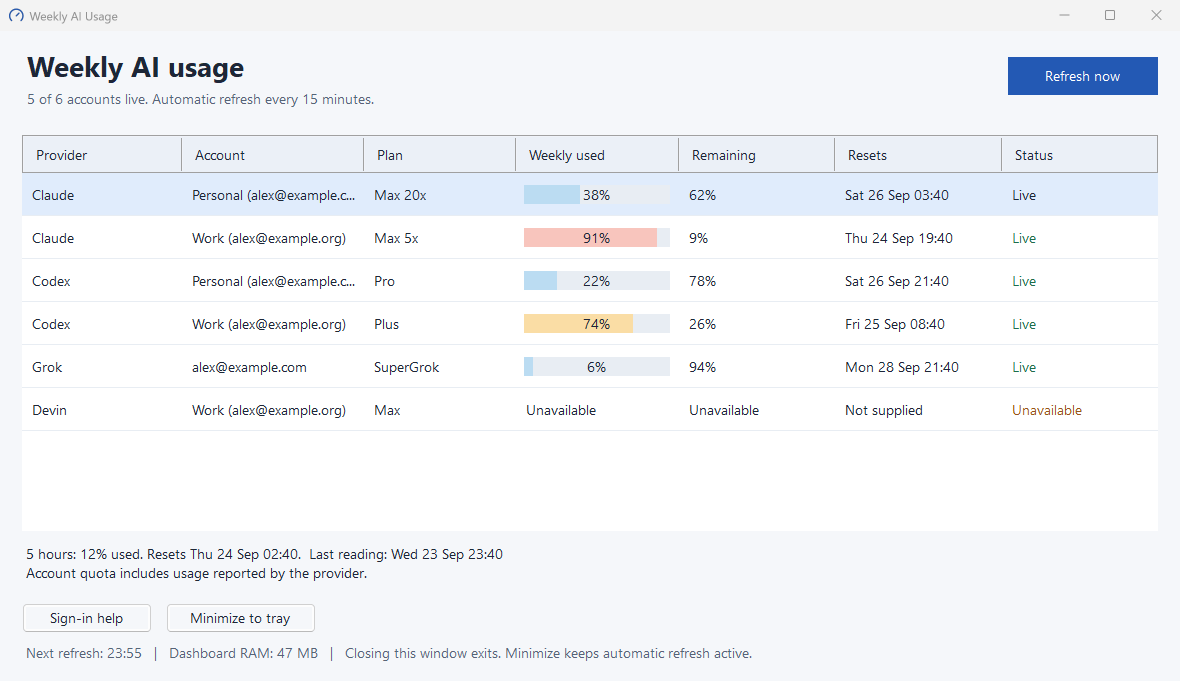
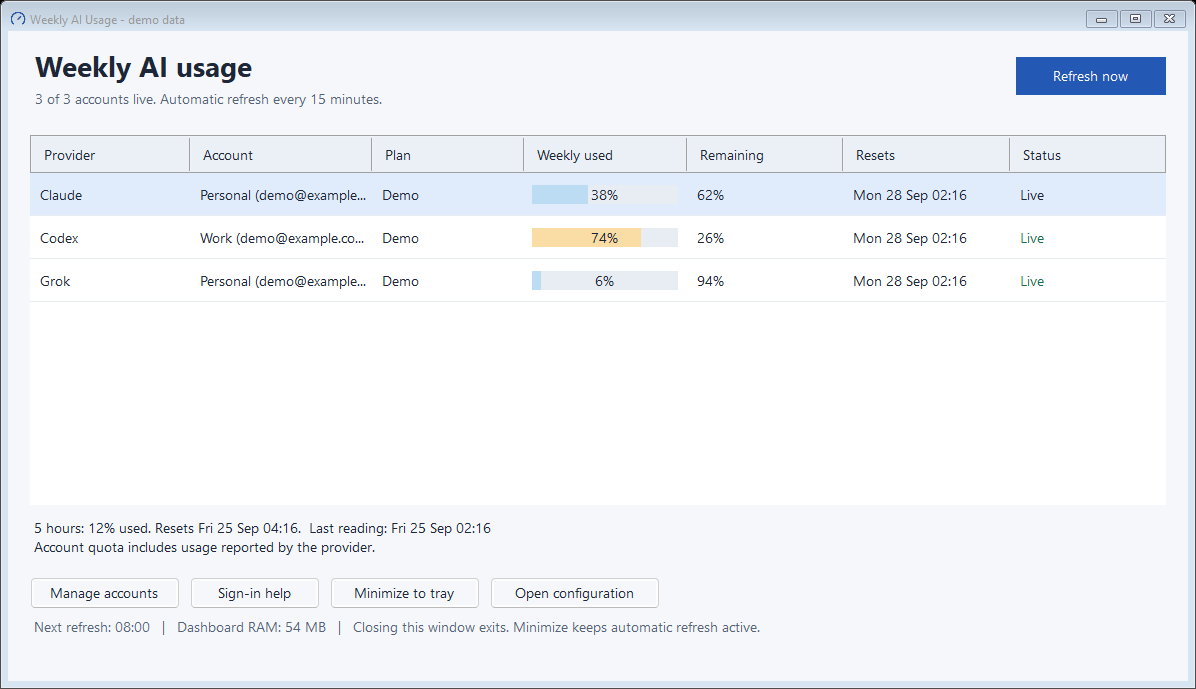
docs(onboarding): guide setup and prepare the LinkedIn preview
Plan: docs/plans/2026-09-25-guided-onboarding.md

diff --git a/README.md b/README.md
@@ -1,51 +1,77 @@
-# Weekly AI Usage
+Weekly AI Usage
+===============
 
-A small Windows tray dashboard that shows the weekly quota of every AI subscription you are signed into: several Claude accounts, several Codex accounts, Grok and Devin, side by side in one table.
+A Windows tray dashboard for checking Claude, Codex, Grok and Devin quota in one place. Keep separate rows for work and personal accounts, see remaining weekly quota and reset times, and select an account to inspect its shorter usage window.
 
-Built for people who run more than one account per provider (work and personal, or one per client) and keep hitting a weekly limit on the wrong one.
+![Dashboard with three accounts and account management controls](docs/screenshot.png)
 
-![Dashboard with two Claude, two Codex, one Grok and one Devin account](docs/screenshot.png)
+Synthetic demo data. These readings illustrate the UI and are not live account results.
 
-## What it reads
+Get your first account working
+------------------------------
 
-| Provider | Plan | Weekly window | Short window | Credentials it reads |
+You need Windows 10 or 11, [Node.js 20 or newer](https://nodejs.org), and a supported provider CLI that you have already signed into. This app reads that existing login. It does not sign you in.
+
+1. Download the portable ZIP from [Releases](https://github.com/naimkatiman/weekly-ai-usage/releases). This is a preview release.
+2. Extract the entire ZIP to a folder you can write to, such as a folder under Documents. Keep the files together.
+3. Open `WeeklyUsage.exe`, then choose Add your first account.
+4. Choose your provider. Select Find existing login to fill in the email from its local profile, or enter the email yourself. For a custom profile, enter its folder first. Devin requires manual email entry.
+5. Choose Save account. The dashboard checks the account immediately. Confirm that its row shows Live and a weekly reading. A detected email alone does not prove that the provider accepts the login.
+
+If the row is Unavailable, select it and open Sign-in help. Follow the instructions for that account, then choose Refresh now. See [troubleshooting](docs/troubleshooting.md) for missing Node.js, custom folders and other setup failures.
+
+Use Manage accounts to edit an account, or choose New account there to add another. A label such as Work or Personal is optional. Start with one account so you can confirm its reading before adding the rest.
+
+Minimize the window to keep it running in the tray. Closing the window with X exits the app. It checks on launch and every 15 minutes while running. Launching it again brings the existing window forward.
+
+![First-run screen with Add your first account](docs/onboarding.png)
+
+What it reads
+-------------
+
+| Provider | Plan | Weekly window | Short window | Existing login |
 | --- | --- | --- | --- | --- |
-| Claude | Pro / Max | 7 day | 5 hour | `<home>/.credentials.json` and `<home>/.claude.json` (Claude Code config dir) |
-| Codex | Plus / Pro | 7 day | 5 hour | `<home>/auth.json` (Codex CLI home) |
-| Grok | SuperGrok | weekly credits | none | `<home>/auth.json` (default `~/.grok`) |
-| Devin | Pro / Max | weekly | daily | the installed `devin` CLI's own login (default `server.codeium.com` login only) |
+| Claude | Pro / Max | 7 day | 5 hour | Claude Code profile; default `~/.claude` plus `~/.claude.json` |
+| Codex | Plus / Pro | 7 day | 5 hour | `auth.json` in the Codex CLI home; default `~/.codex` |
+| Grok | SuperGrok | weekly credits | none | `auth.json` in the Grok profile; default `~/.grok` |
+| Devin | Pro / Max | weekly | daily | Installed Devin CLI's login at `server.codeium.com` only |
 
-It only reads logins that already exist. It never refreshes tokens, switches accounts, sends prompts or spends credits. Each token goes only to its own provider's usage endpoint. Claude, Codex and Devin replies are checked against the configured email, so one account's numbers are never shown under another. Grok's usage reply carries no identity, so Grok is matched on the email the Grok CLI stored next to its key.
+It only reads existing logins. It never refreshes tokens, switches accounts, sends prompts or spends credits. Find existing login reads local identity information; saving an account starts a network usage check. Tokens are sent only to their own provider's usage or identity endpoints. There is no shared dashboard service receiving them.
 
-## Setup
+Claude, Codex and Devin replies are checked against the configured email. Grok's usage reply has no identity, so Grok is matched using the email its CLI stored with the key. The app does not store tokens in `accounts.json` or `usage-cache.json`. Those files do contain account emails; the cache also contains readings and status information.
 
-Requirements: Windows 10 or 11, [Node.js 20+](https://nodejs.org), and the provider CLIs you already use.
+Understanding the readings
+--------------------------
 
-1. Clone this repo.
-2. Build the window (uses the C# compiler that ships with Windows, no SDK needed):
-   `powershell -NoProfile -ExecutionPolicy Bypass -File build.ps1`
-3. Copy `accounts.example.json` to `accounts.json` and list your logins.
-4. Run `WeeklyUsage.exe`. It checks on launch and every 15 minutes, and minimizes to the tray.
+| State | Meaning |
+| --- | --- |
+| Live | The provider returned a current reading for this account. |
+| Stale | The latest check failed or the displayed reading is old. Its original capture time stays visible. A failed check can retain a previous reading for up to 24 hours. |
+| Reset pending | The reported reset time has passed. The app waits for a new provider reading instead of assuming 0%. |
+| Unavailable | No usable reading is available. Missing numbers are never displayed as zero. |
 
-## Multiple accounts per provider
+Select an account for its details and any error message. Use Refresh now after repairing a login or connection.
 
-Claude Code and Codex both keep a login per config folder. Give each account its own folder, sign in once per folder, and point `home` at it:
+Multiple accounts and custom profiles
+------------------------------------
 
-```powershell
-# one-time sign-in per account
-$env:CLAUDE_CONFIG_DIR = "$HOME\.claude-work"; claude    # then /login as work@example.com
-$env:CODEX_HOME = "$HOME\.codex-work"; New-Item -ItemType Directory -Force $env:CODEX_HOME | Out-Null
-codex login                                               # as work@example.com (Codex needs the folder to exist)
-```
+Each provider and email pair can appear once. Separate workspaces or organizations under the same email are not supported. Each account needs an existing CLI login that matches its email.
+
+For Claude and Codex, set Profile folder to the directory used by that account's CLI. A custom Claude profile contains `.credentials.json` and `.claude.json`; a custom Codex profile contains `auth.json`. Grok uses `auth.json` in its profile folder. The app does not move or create provider credentials. Use Sign-in help for the selected account's recovery instructions.
+
+For Devin, set the optional Devin CLI path if `devin.exe` is not on PATH. Only the default server login is supported; enterprise and regional logins are rejected.
+
+Manual configuration
+--------------------
+
+The account editor creates `accounts.json` beside the app by default. Set `WEEKLY_USAGE_CONFIG` before launching the app to use a different file; the editor and collector both use it. Existing account settings and additional JSON fields are preserved when the editor saves. If another process changes the file, reopen Manage accounts before saving again.
+
+For manual setup, copy `accounts.example.json` to `accounts.json`, replace the example email with your own, and choose Refresh now. The example contains one account:
 
 ```json
 {
   "accounts": [
-    { "provider": "claude", "email": "me@example.com" },
-    { "provider": "claude", "email": "work@example.com", "label": "Work", "home": "~/.claude-work" },
-    { "provider": "codex", "email": "work@example.com", "home": "~/.codex-work" },
-    { "provider": "grok", "email": "me@example.com" },
-    { "provider": "devin", "email": "work@example.com", "cli": "C:/path/to/devin.exe" }
+    { "provider": "claude", "email": "me@example.com" }
   ]
 }
 ```
@@ -53,43 +79,62 @@ codex login                                               # as work@example.com 
 | Field | Required | Meaning |
 | --- | --- | --- |
 | `provider` | yes | `claude`, `codex`, `grok` or `devin` |
-| `email` | yes | the account's email. Claude, Codex and Devin readings for any other identity are rejected. |
-| `home` | no | that account's config folder. Without it, the default profile (`~/.claude`, `~/.codex`, `~/.grok`) is used when its email matches. |
-| `label` | no | shown before the email |
-| `plan` | no | display name when the provider does not report one |
-| `cli` | no | Devin only: path to `devin.exe` if it is not on PATH |
+| `email` | yes | The email of the existing provider login. |
+| `home` | no | That account's profile folder, for example `~/.codex-work`. Without it, the provider's default folder is used. |
+| `label` | no | Display label, for example `Work`. |
+| `plan` | no | Display name when the provider does not report one. |
+| `cli` | no | Devin only: path to `devin.exe` if it is not on PATH. |
 
-Each provider and email pair can appear once, so two workspaces or orgs under the same email are not supported. Write Windows paths with forward slashes (`C:/tools/devin.exe`); single backslashes are invalid JSON. Set `WEEKLY_USAGE_CONFIG` to keep the file somewhere else.
+Save JSON as UTF-8. Use forward slashes in Windows paths, such as `C:/tools/devin.exe`, or double each backslash. Never put credentials or tokens in this file.
 
-## Behaviour
+Updates and removal
+-------------------
 
-- **Expired login:** the row says so. Open that account's CLI, run `/usage` or sign in, then click Refresh now. The Sign-in help button shows the exact step for the selected row.
-- **Failed read:** the last good reading for the same account stays on screen marked Stale, with its original time, for up to 24 hours.
-- **Passed reset:** shows Reset pending. It never assumes a fresh 0%.
-- **Missing numbers** show as Unavailable, never as zero.
-- Launching it twice brings the existing window back, recentred if its last monitor is gone.
-- `usage-cache.json` holds emails and percentages only, never tokens. It is gitignored.
+Before updating, exit the app and back up `accounts.json`. If you set `WEEKLY_USAGE_CONFIG`, back up that file instead and keep the same setting when launching the new version. Release ZIPs do not contain a real `accounts.json` or `usage-cache.json`.
 
-Headless: `node collect.cjs` prints the same JSON the window shows, so scripts can use it on Windows or Linux. On macOS, Claude Code keeps its login in the Keychain instead of `.credentials.json`, so Claude rows report no matching login there.
+Extract a new release to a new folder. Copy your old `accounts.json` into it, or continue using your external configuration file, then launch the new executable. The usage cache is optional and can be rebuilt by refreshing. Keep the old folder until the new version reads your account correctly.
 
-## Caveats
+To remove the app, exit it and delete its extracted folder. This removes its local configuration and cache if they are in that folder. Remove any external configuration file separately if you no longer need it. Provider CLI logins remain in their own folders and are unchanged.
 
-These are the endpoints the official CLIs use to show your usage. They are not public APIs and can change without notice. Grok and Devin replies are decoded from protobuf with strict checks; anything malformed or ambiguous is reported as Unavailable rather than guessed.
+Caveats
+-------
 
-Devin's status call needs the native client's request fingerprint, so the collector runs `devin auth status` against a short-lived loopback relay that forwards only two fixed read-only routes to `server.codeium.com` and closes after the probe. It first checks which server the login belongs to, and refuses enterprise or regional Devin logins rather than send their credentials to the default server.
+These are endpoints used by the provider CLIs, not public APIs. They can change without notice. Grok and Devin replies are decoded from protobuf with strict checks; malformed or ambiguous replies are reported as Unavailable.
+
+Devin's status call needs the native client's request fingerprint. The collector runs `devin auth status` through a short-lived loopback relay that forwards only two fixed read-only routes to `server.codeium.com`, then closes. It checks the login's server first and rejects enterprise or regional logins before forwarding credentials.
 
 Endpoint references: [CodexBar provider notes](https://github.com/steipete/CodexBar/tree/main/docs) for Claude, Codex and Grok.
 
-## Development
+Build from source
+-----------------
 
+In PowerShell, with Git and Node.js installed:
+
+```powershell
+git clone https://github.com/naimkatiman/weekly-ai-usage.git
+Set-Location weekly-ai-usage
+powershell -NoProfile -ExecutionPolicy Bypass -File .\build.ps1
+.\WeeklyUsage.exe
 ```
-node --test collect.test.cjs
+
+The build uses the .NET Framework C# compiler included with Windows. No additional .NET SDK or package installation is needed. Keep the executable with the collector files.
+
+Development
+-----------
+
+Run all tests, compile, then create a portable preview package:
+
+```powershell
+powershell -NoProfile -ExecutionPolicy Bypass -File .\test.ps1
+powershell -NoProfile -ExecutionPolicy Bypass -File .\build.ps1
+powershell -NoProfile -ExecutionPolicy Bypass -File .\package.ps1 -Version 0.1.0-preview.1
 ```
 
-`collect.cjs` builds the snapshot, `grok.cjs` and `devin.cjs` decode those providers' binary replies, `WeeklyUsage.cs` is the WinForms window.
+The package and SHA-256 checksum are written to `dist/WeeklyAIUsage-0.1.0-preview.1-windows.zip` and its `.sha256` file. `collect.cjs` builds the snapshot; `grok.cjs` and `devin.cjs` decode provider responses. The C# sources implement the window and account editor.
 
-## License
+Headless: after configuring an account, `node collect.cjs` prints the snapshot as JSON on Windows or Linux. On macOS, Claude Code uses the Keychain instead of `.credentials.json`, so Claude rows report no matching login.
 
-MIT. See [LICENSE](LICENSE).
+License
+-------
 
-Tray icon: Lucide gauge geometry, Copyright (c) Lucide Contributors, ISC License.
+MIT. See [LICENSE](LICENSE). Tray icon: Lucide gauge geometry, Copyright (c) Lucide Contributors, ISC License.

diff --git a/docs/troubleshooting.md b/docs/troubleshooting.md
@@ -1,0 +1,65 @@
+Troubleshooting
+===============
+
+Start with one account. A successful setup ends with the correct email, a Live state and a weekly reading. Find existing login only identifies a local profile; it does not validate the provider session.
+
+Node.js was not found
+---------------------
+
+Install [Node.js 20 or newer](https://nodejs.org). Close Weekly AI Usage and open it again so it can pick up the updated PATH. In a new PowerShell window, run `node --version` to check the installation. If you installed Node.js manually, add its folder to PATH and restart the app.
+
+No matching login or the wrong email
+-----------------------------------
+
+1. Open Manage accounts and check the provider, email and Profile folder.
+2. If you use a custom profile, enter the directory that holds that account's existing login, then select Find existing login. The app does not search every folder on your machine.
+3. For a saved account, select its row and open Sign-in help. Copy its instructions and run the relevant CLI command yourself. Sign in using the email shown for that account.
+4. Return to the dashboard and select Refresh now.
+
+Claude uses `~/.claude` by default, with identity information in `~/.claude.json`. In a custom Claude profile, the folder contains `.credentials.json` and `.claude.json`. Codex and Grok use `auth.json` in their profile folders. A profile path points at the folder, not the JSON file.
+
+An email detected from a local file may belong to an expired login. The dashboard's usage check determines whether it can read the account. If the provider reports a different identity, the reading is rejected. Check the selected login instead of relabelling another account's reading.
+
+Devin does not support local email detection in the account editor. Enter its email manually and use the optional Devin CLI path if the executable is not on PATH.
+
+Expired login or access denied
+-----------------------------
+
+Select the affected row and open Sign-in help. Use the displayed account and profile when signing in through the provider CLI, then choose Refresh now. The dashboard never renews tokens for you. If the CLI itself cannot show usage, resolve that provider login or subscription issue first.
+
+Configuration is invalid or cannot be saved
+------------------------------------------
+
+The app preserves an unreadable or invalid configuration file instead of replacing it. Use Open configuration to inspect the file and make a backup before editing it. Check the file path shown in the app; `WEEKLY_USAGE_CONFIG` can point outside the extracted app folder.
+
+- Save the file as UTF-8, not UTF-16.
+- Use an `accounts` array with a supported `provider` and an `email` for every entry.
+- Each provider and email pair must be unique.
+- Use forward slashes or escaped backslashes in JSON paths. Comments and trailing commas are invalid JSON.
+- Keep the app and its default configuration in a writable folder, not Program Files or inside the ZIP.
+
+Compare your file with `accounts.example.json`, repair it, then reopen Manage accounts. Do not overwrite your account list with the example. If another process changed the file after you opened the editor, close the editor and reopen it to load those changes before saving.
+
+Stale, Reset pending or Unavailable
+----------------------------------
+
+Stale means the displayed reading is from an earlier successful check. Check its capture time and the account's error message. Restore connectivity or repair the login, then choose Refresh now. A failed check can retain a prior reading for up to 24 hours.
+
+Reset pending means the provider's reported reset time has passed. Wait for a fresh reading. The app does not assume the quota has returned to zero.
+
+Unavailable means there is no usable reading. It does not mean the account has used all its quota. Provider errors, an unsupported response or a missing weekly allowance can cause it. If the provider rate limits a check, wait for the next scheduled refresh.
+
+Devin enterprise or regional server
+----------------------------------
+
+Only a Devin CLI login for `server.codeium.com` is supported. Enterprise and regional logins are rejected before their credentials can be forwarded to that server. Use the provider's own usage view for those accounts. Do not change a login's server merely to bypass the check.
+
+Window closed or updates stopped
+--------------------------------
+
+Minimize keeps the app in the tray. X exits it and stops checks. Open `WeeklyUsage.exe` again to resume. A second launch focuses the existing window if the app is already running.
+
+Reporting a problem
+-------------------
+
+Include your Windows and Node.js versions, provider, app release version, and the exact error text. Remove email addresses and local paths from screenshots if you do not want to share them. Never attach provider credential files or tokens. `accounts.json` and `usage-cache.json` also contain account emails; review them before sharing anything.

diff --git a/docs/linkedin-preview.md b/docs/linkedin-preview.md
@@ -1,0 +1,56 @@
+LinkedIn preview launch
+======================
+
+This is a prepared draft, not a published post. Use it only after the portable preview release is available and its download link has been checked. The three-person onboarding test below remains unverified. No live provider compatibility or setup timing is claimed by this document.
+
+Post draft
+----------
+
+Which AI account still has quota before I start another coding session?
+
+I built Weekly AI Usage to answer that in one Windows tray dashboard.
+
+It reads quota for Claude, Codex, Grok and Devin, with separate rows for work and personal accounts. You can see the reported weekly usage, remaining quota and reset time. Select an account to inspect its shorter usage window when the provider offers one.
+
+The preview now has a portable download and a guided account setup. Choose a provider, find an existing local login, and save the account. Devin requires manual email entry.
+
+You still need Windows, Node.js 20 or newer, and a provider CLI you have already signed into. The dashboard reads those logins, checks usage every 15 minutes, and labels missing or stale readings clearly. It does not send prompts or spend credits.
+
+I am looking for Windows users with multiple AI accounts to try the setup and tell me where they get stuck.
+
+Download the preview: https://github.com/naimkatiman/weekly-ai-usage/releases
+
+Prepared preview asset
+----------------------
+
+`linkedin-preview.mp4` is a 25-second captioned walkthrough made from native UI screenshots. It shows welcome, account setup, missing-login feedback and a synthetic quota dashboard. It is an illustrated preview, not a recording of a real provider sign-in. The release includes this optional video for the post. The storyboard below is available for a later interactive recording.
+
+Demo recording, 25 seconds
+-------------------------
+
+Use a clean demo configuration with addresses such as `personal@example.com` and `work@example.com`. Record only synthetic readings and label the recording "Demo data" on screen throughout. Never expose real account emails, provider credential files or tokens. Synthetic readings demonstrate the interface; they do not verify live provider compatibility.
+
+| Time | Picture | On-screen text |
+| --- | --- | --- |
+| 0-3 s | Open the dashboard from the tray. Show two demo account rows with different remaining quotas. | Which account has quota left? |
+| 3-7 s | Open Manage accounts and the account editor. Show the provider choice and demo email. | Add the account you already use |
+| 7-12 s | Show a separate, clearly labelled demo of the first-run setup with Find existing login and Save account. | Existing CLI login required |
+| 12-18 s | Return to the two-row dashboard. Select one row to show its shorter usage window and reset time. | Weekly quota and reset time |
+| 18-22 s | Show a Stale demo row with its capture time, then an Unavailable row. | Missing data stays visible |
+| 22-25 s | Minimize to the tray. End with the repository name and release link. | Windows preview. Node.js 20+ required. |
+
+Keep account names and statuses large enough to read on a phone. Use short cuts instead of speeding through an actual setup. Do not add a stopwatch or imply that a 25-second video proves setup duration. Add captions so the demo works without audio.
+
+Gate for the broader launch
+--------------------------
+
+Status: unverified. Recruit three first-time Windows users who already have Node.js 20+ and one supported CLI login. Give them only the release link and README. Record prerequisite installation time separately if a participant starts without them.
+
+For each participant, record whether they independently:
+
+- Download and extract the ZIP, launch the app, add the intended account, and reach a verified Live reading within five minutes.
+- Recover from a missing login using the app's help and documentation.
+- Explain the difference between Live, Stale, Reset pending and Unavailable.
+- Minimize the app to keep it running and exit it intentionally.
+
+Record elapsed time, the step where help was needed, the provider and any error. Do not count a detected email or synthetic reading as a verified Live result. Ask what they expected at the point of confusion, then fix repeated obstacles before making an easy-onboarding claim.

diff --git a/docs/plans/2026-09-25-guided-onboarding.md b/docs/plans/2026-09-25-guided-onboarding.md
@@ -36,9 +36,18 @@ Each layer has a separate commit, at most 15 files and 500 changed lines. Split 
 ## Progress
 
 - [x] Public baseline and existing tests reviewed; clean isolated checkout created.
-- [ ] Configuration service and tests.
-- [ ] Guided UI and native verification.
-- [ ] Portable ZIP and CI.
-- [ ] Documentation and LinkedIn draft.
+- [x] Configuration service and tests.
+- [x] Guided UI and native verification.
+- [x] Portable ZIP and CI workflow.
+- [x] Documentation and LinkedIn draft.
 - [ ] Independent review, hosted checks, merge and preview release.
 - [ ] Three new users reach a verified account reading within five minutes and recover from a missing login.
+
+## September 25 verification
+
+- 24 collector tests, 80 configuration assertions and 25 native onboarding checks passed. C# compiled with warnings as errors.
+- The extracted portable ZIP passed the same 25 native checks against its shipped executable. Its executable hash matched the source build.
+- Native screenshots show first-run setup, the account editor, missing-login recovery and a clearly labelled synthetic dashboard.
+- The account editor was also inspected with control bounds scaled to 150%; real monitor-DPI switching was not performed.
+- Independent review caught and verified fixes for removed accounts returning from cache, default Claude metadata precedence, copied prose being treated as shell commands, and a test modal that could hang after a failed save.
+- Live provider sign-ins, a machine without Node.js, and the three-person usability target have not been tested. Installed Node.js was v24.12.0 locally; CI covers Node.js 20.
